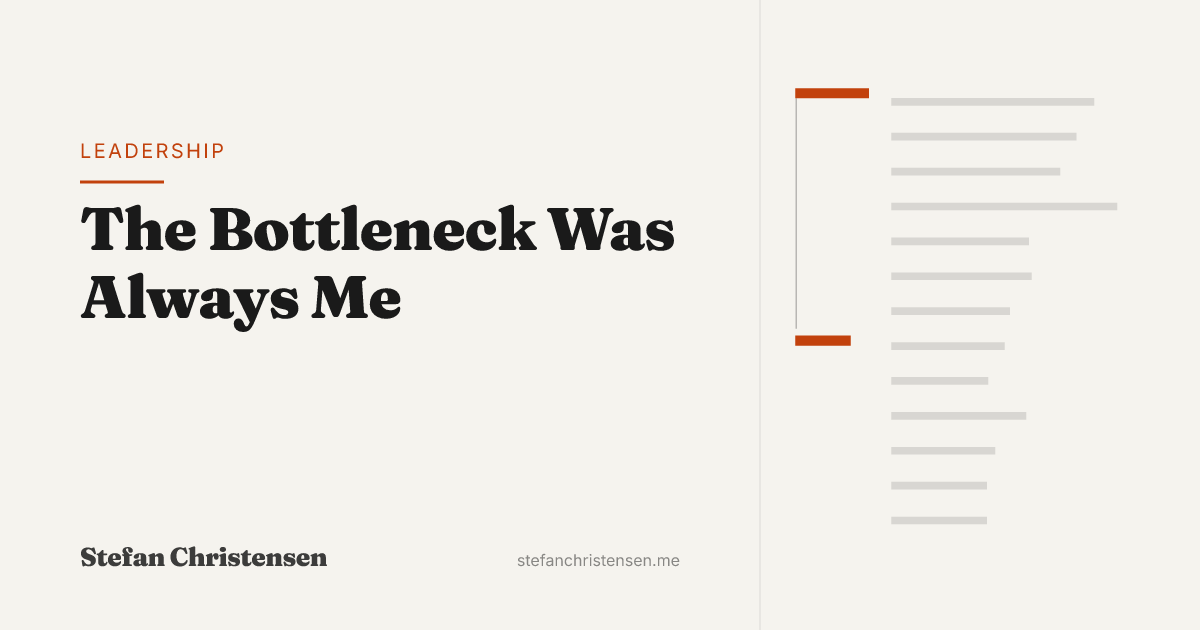
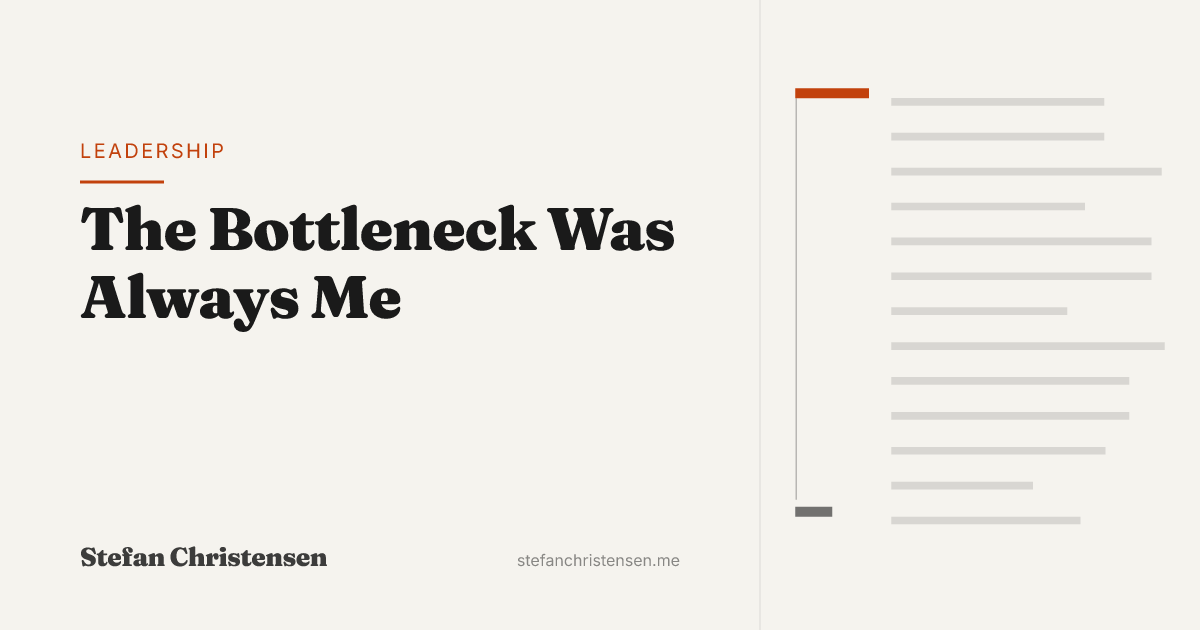
Add explanatory diagrams for payments, three lanes and org design
Three diagrams for the posts where one teaches something rather than
decorating: the payment flow, the three-lane operating model, and the
four framework lenses.

Authored as inline SVG in the markdown rather than files under
public/diagrams. An <img>-loaded SVG can only theme itself with
prefers-color-scheme, which follows the OS — but the site's toggle writes
data-theme and is independent of it, so a diagram would render off-theme
for anyone whose toggle disagrees with their OS. Inline SVG reads the
same --accent and --ink-rgb tokens the post marks use and follows the
toggle exactly, with no MDX conversion or build plugin.

Diagram styles live in global.css rather than in each SVG: a <style>
block inside inline SVG is not scoped, so three copies would fight each
other. The dead .post-body img[src*="/diagrams/"] rule is removed, and
the placeholder comment that had been sitting in payment-systems-lessons
is replaced with the real thing.

Also fixes a bug the diagrams exposed: analyze() measured the raw
markdown, so a post carrying an inline SVG had thousands of path
coordinates and attribute tokens counted as prose. That inflated its word
count, paragraph count and numeral density, and the mark is meant to
describe the writing rather than the markup. Non-prose is now stripped
before measuring.

Verified in both themes at the real post measure, with no label
collisions and no text overflowing its box.

Claude-Session: https://claude.ai/code/session_011fMTijSqXqtz477niupaed

diff --git a/src/styles/global.css b/src/styles/global.css
@@ -479,9 +479,92 @@ a.featured:hover {
   height: auto;
 }
 
-.post-body img[src*="/diagrams/"] {
-  padding: 24px 16px;
-  background: var(--bg);
+/* Explanatory diagrams — authored as inline SVG in the post so they follow the
+   theme toggle. An <img> could only follow prefers-color-scheme, which is the
+   OS setting and disagrees with the toggle whenever someone overrides it.
+   Styles live here rather than in each SVG: a <style> block inside inline SVG
+   is not scoped, so three copies would fight each other. */
+
+.post-diagram {
+  margin: 40px 0;
+  max-width: 100%;
+}
+
+.post-diagram svg {
+  display: block;
+  width: 100%;
+  height: auto;
+  overflow: visible;
+}
+
+.post-diagram figcaption {
+  margin-top: 14px;
+  font-size: 13.5px;
+  line-height: 1.55;
+  color: var(--ink-60);
+  max-width: 560px;
+}
+
+.d-node {
+  fill: none;
+  stroke: rgba(var(--ink-rgb), 0.24);
+  stroke-width: 1;
+}
+
+.d-node--key {
+  stroke: var(--accent);
+  stroke-width: 1.6;
+}
+
+.d-line {
+  fill: none;
+  stroke: rgba(var(--ink-rgb), 0.3);
+  stroke-width: 1.2;
+}
+
+.d-line--key {
+  stroke: var(--accent);
+  stroke-width: 1.6;
+}
+
+.d-line--back {
+  stroke-dasharray: 4 4;
+}
+
+.d-head {
+  fill: rgba(var(--ink-rgb), 0.3);
+}
+
+.d-head--key {
+  fill: var(--accent);
+}
+
+.d-label {
+  font-family: var(--font-body);
+  font-size: 12px;
+  fill: rgba(var(--ink-rgb), 0.8);
+}
+
+.d-label--key {
+  fill: var(--accent);
+}
+
+.d-sub {
+  font-family: var(--font-body);
+  font-size: 10.5px;
+  fill: rgba(var(--ink-rgb), 0.5);
+}
+
+.d-tag {
+  font-family: var(--font-body);
+  font-size: 9.5px;
+  letter-spacing: 0.11em;
+  text-transform: uppercase;
+  fill: rgba(var(--ink-rgb), 0.45);
+}
+
+.d-tag--key {
+  fill: var(--accent);
 }
 
 /* Page body — same as post-body but no drop cap */

diff --git a/src/content/posts/payment-systems-lessons.md b/src/content/posts/payment-systems-lessons.md
@@ -27,9 +27,31 @@ Then you hit production. I've seen teams spend weeks debugging why ledgers don't
 
 ## See How Money Moves Before You Build
 
-<!-- DIAGRAM: drop the Excalidraw SVG export at public/diagrams/payment-flow.svg, then uncomment the line below.
-![Payment flow showing customer account, intermediate holding accounts, settlement, and merchant account, with refunds, partial settlements, and chargebacks branching off the happy path](/diagrams/payment-flow.svg)
--->
+<figure class="post-diagram">
+<svg viewBox="0 0 640 268" role="img" aria-label="Funds move from the customer through a payment service provider into an intermediate holding account, then to settlement and the merchant. Partial settlements, fees, refunds, chargebacks and reversals all return into that same holding account rather than reversing along the path they arrived on.">
+<defs><marker id="pf-a" viewBox="0 0 8 8" refX="7" refY="4" markerWidth="7" markerHeight="7" orient="auto"><path d="M0 0 L8 4 L0 8 z" class="d-head"/></marker><marker id="pf-k" viewBox="0 0 8 8" refX="7" refY="4" markerWidth="7" markerHeight="7" orient="auto"><path d="M0 0 L8 4 L0 8 z" class="d-head--key"/></marker></defs>
+<text x="0" y="14" class="d-tag">The forward path</text>
+<rect x="0" y="34" width="112" height="46" class="d-node"/><text x="14" y="55" class="d-label">Customer</text><text x="14" y="70" class="d-sub">card debited</text>
+<line x1="118" y1="57" x2="140" y2="57" class="d-line" marker-end="url(#pf-a)"/>
+<rect x="146" y="34" width="112" height="46" class="d-node"/><text x="160" y="55" class="d-label">PSP</text><text x="160" y="70" class="d-sub">authorise, capture</text>
+<line x1="264" y1="57" x2="286" y2="57" class="d-line" marker-end="url(#pf-a)"/>
+<rect x="292" y="34" width="112" height="46" class="d-node d-node--key"/><text x="306" y="55" class="d-label d-label--key">Holding account</text><text x="306" y="70" class="d-sub">funds sit here</text>
+<line x1="410" y1="57" x2="432" y2="57" class="d-line" marker-end="url(#pf-a)"/>
+<rect x="438" y="34" width="90" height="46" class="d-node"/><text x="452" y="55" class="d-label">Settlement</text><text x="452" y="70" class="d-sub">net of fees</text>
+<line x1="534" y1="57" x2="556" y2="57" class="d-line" marker-end="url(#pf-a)"/>
+<rect x="562" y="34" width="78" height="46" class="d-node"/><text x="576" y="55" class="d-label">Merchant</text>
+<text x="0" y="112" class="d-tag d-tag--key">Everything else</text>
+<path d="M483 82 L483 140 L352 140" class="d-line d-line--key"/>
+<path d="M601 82 L601 178 L352 178" class="d-line d-line--key"/>
+<path d="M348 180 L348 88" class="d-line d-line--key" marker-end="url(#pf-k)"/>
+<text x="336" y="136" class="d-sub" text-anchor="end">Partial settlement, fees, FX</text>
+<text x="336" y="174" class="d-sub" text-anchor="end">Refund, chargeback, reversal</text>
+<line x1="0" y1="208" x2="640" y2="208" class="d-line" style="stroke-width:1;stroke:rgba(var(--ink-rgb),0.15)"/>
+<text x="0" y="232" class="d-label">Every return path re-enters at the holding account.</text>
+<text x="0" y="252" class="d-sub">It is the account most often left off the map, and the one that decides whether the ledger balances.</text>
+</svg>
+<figcaption>The happy path is one line across the top. The reason ledgers stop balancing is everything underneath it: refunds, chargebacks, partial settlements and fees don't reverse back along the path they came in on — they re-enter at the intermediate account.</figcaption>
+</figure>
 
 Before implementing anything, diagram which accounts funds move between, when transfers happen, and how balances change at each step. Not just the happy path: chargebacks, refunds, partial settlements, currency conversions. Every fund movement creates debits and credits across accounts. When you haven't mapped the state changes completely (the holds, the reversals, the fees), your ledger won't balance and reconciliation becomes manual detective work.
 

diff --git a/src/content/posts/three-lanes-what-to-build-spec-build.md b/src/content/posts/three-lanes-what-to-build-spec-build.md
@@ -25,6 +25,38 @@ Build is the third lane. It picks up the spec from the second lane and ships it.
 
 What ties the three together is what crosses the boundary: an artifact, not a meeting.
 
+<figure class="post-diagram">
+<svg viewBox="0 0 640 260" role="img" aria-label="Three lanes — what to build, spec built, and build — connected not by meetings but by artifacts: a structured item passes from the first lane to the second, a spec from the second to the third, and when something ships the loop closes back to the first lane.">
+<defs><marker id="tl-a" viewBox="0 0 8 8" refX="7" refY="4" markerWidth="7" markerHeight="7" orient="auto"><path d="M0 0 L8 4 L0 8 z" class="d-head--key"/></marker><marker id="tl-b" viewBox="0 0 8 8" refX="7" refY="4" markerWidth="7" markerHeight="7" orient="auto"><path d="M0 0 L8 4 L0 8 z" class="d-head"/></marker></defs>
+<rect x="0" y="26" width="188" height="112" class="d-node"/>
+<text x="16" y="18" class="d-tag">Lane one</text>
+<text x="16" y="52" class="d-label">What to build</text>
+<text x="16" y="72" class="d-sub">Customer signal, ideas,</text><text x="16" y="87" class="d-sub">competitor research, gaps</text>
+<text x="16" y="122" class="d-tag">Owner: signal holder</text>
+<rect x="226" y="26" width="188" height="112" class="d-node"/>
+<text x="242" y="18" class="d-tag">Lane two</text>
+<text x="242" y="52" class="d-label">Spec built</text>
+<text x="242" y="72" class="d-sub">The user, the interaction,</text><text x="242" y="87" class="d-sub">success criteria, constraints</text>
+<text x="242" y="122" class="d-tag">Owner: product + taste</text>
+<rect x="452" y="26" width="188" height="112" class="d-node"/>
+<text x="468" y="18" class="d-tag">Lane three</text>
+<text x="468" y="52" class="d-label">Build</text>
+<text x="468" y="72" class="d-sub">Implementation plan, agents,</text><text x="468" y="87" class="d-sub">review, merge, deploy</text>
+<text x="468" y="122" class="d-tag">Owner: conductor</text>
+<line x1="190" y1="82" x2="222" y2="82" class="d-line d-line--key" marker-end="url(#tl-a)"/>
+<line x1="416" y1="82" x2="448" y2="82" class="d-line d-line--key" marker-end="url(#tl-a)"/>
+<text x="206" y="166" class="d-tag d-tag--key" text-anchor="middle">Item</text>
+<text x="432" y="166" class="d-tag d-tag--key" text-anchor="middle">Spec</text>
+<line x1="206" y1="88" x2="206" y2="152" class="d-line d-line--key"/>
+<line x1="432" y1="88" x2="432" y2="152" class="d-line d-line--key"/>
+<path d="M546 142 L546 206 L94 206 L94 144" class="d-line d-line--back" marker-end="url(#tl-b)"/>
+<text x="320" y="200" class="d-sub" text-anchor="middle">When it ships, the loop closes back to the source that asked for it</text>
+<line x1="0" y1="228" x2="640" y2="228" class="d-line" style="stroke-width:1;stroke:rgba(var(--ink-rgb),0.15)"/>
+<text x="0" y="250" class="d-label">What crosses the boundary is the artifact, not the meeting.</text>
+</svg>
+<figcaption>Each lane runs at its own cadence. The only things crossing a boundary are the item and the spec — bridge the lanes with standups and handoff meetings instead, and they collapse back into one undifferentiated process.</figcaption>
+</figure>
+
 ## Lane One: What to Build
 
 The job of this lane is connecting the team to the signal it already generates and turning that signal into a structured view of what to build next.

diff --git a/src/content/posts/org-design-no-clean-answer.md b/src/content/posts/org-design-no-clean-answer.md
@@ -23,6 +23,33 @@ Pick any one of those frameworks and run with it, and you'll do well on that dim
 
 The frameworks are right. They're also incomplete on their own.
 
+<figure class="post-diagram">
+<svg viewBox="0 0 640 300" role="img" aria-label="Four framework lenses pulling one organisation in four directions: people asks about span of control, product asks about journeys and personas, Team Topologies asks about team types, and architecture asks that team boundaries follow system boundaries.">
+<defs><marker id="od-a" viewBox="0 0 8 8" refX="7" refY="4" markerWidth="7" markerHeight="7" orient="auto"><path d="M0 0 L8 4 L0 8 z" class="d-head--key"/></marker></defs>
+<rect x="248" y="126" width="144" height="48" class="d-node d-node--key"/>
+<text x="320" y="147" class="d-label d-label--key" text-anchor="middle">One org design</text>
+<text x="320" y="163" class="d-sub" text-anchor="middle">one shape, four claims</text>
+<rect x="0" y="14" width="196" height="62" class="d-node"/>
+<text x="14" y="36" class="d-label">People</text>
+<text x="14" y="54" class="d-sub">Symmetric teams, defensible</text><text x="14" y="68" class="d-sub">manager spans, a clean tree</text>
+<rect x="444" y="14" width="196" height="62" class="d-node"/>
+<text x="458" y="36" class="d-label">Product</text>
+<text x="458" y="54" class="d-sub">Teams close to outcomes, end</text><text x="458" y="68" class="d-sub">to end on a journey or problem</text>
+<rect x="0" y="224" width="196" height="62" class="d-node"/>
+<text x="14" y="246" class="d-label">Team Topologies</text>
+<text x="14" y="264" class="d-sub">Honest team types, clean</text><text x="14" y="278" class="d-sub">boundaries between them</text>
+<rect x="444" y="224" width="196" height="62" class="d-node"/>
+<text x="458" y="246" class="d-label">Architecture</text>
+<text x="458" y="264" class="d-sub">Team boundaries following</text><text x="458" y="278" class="d-sub">system boundaries</text>
+<line x1="252" y1="132" x2="200" y2="80" class="d-line d-line--key" marker-end="url(#od-a)"/>
+<line x1="388" y1="132" x2="440" y2="80" class="d-line d-line--key" marker-end="url(#od-a)"/>
+<line x1="252" y1="168" x2="200" y2="220" class="d-line d-line--key" marker-end="url(#od-a)"/>
+<line x1="388" y1="168" x2="440" y2="220" class="d-line d-line--key" marker-end="url(#od-a)"/>
+<text x="320" y="262" class="d-sub" text-anchor="middle">Each lens is right. They point four different ways.</text>
+</svg>
+<figcaption>Run with any single one of these and you do well on that dimension and badly on the other three: the HR-clean org stretches product teams across journeys they don't own, the product-clean org grows wild manager spans, and the architecture-clean org puts people on work they never signed up for.</figcaption>
+</figure>
+
 ## The Setup
 
 The hardest version of this I've worked on came when I was asked to fold four separate areas into one. The output had to be a single company-wide technology platform that served every team in the company, on every kind of work they did.
